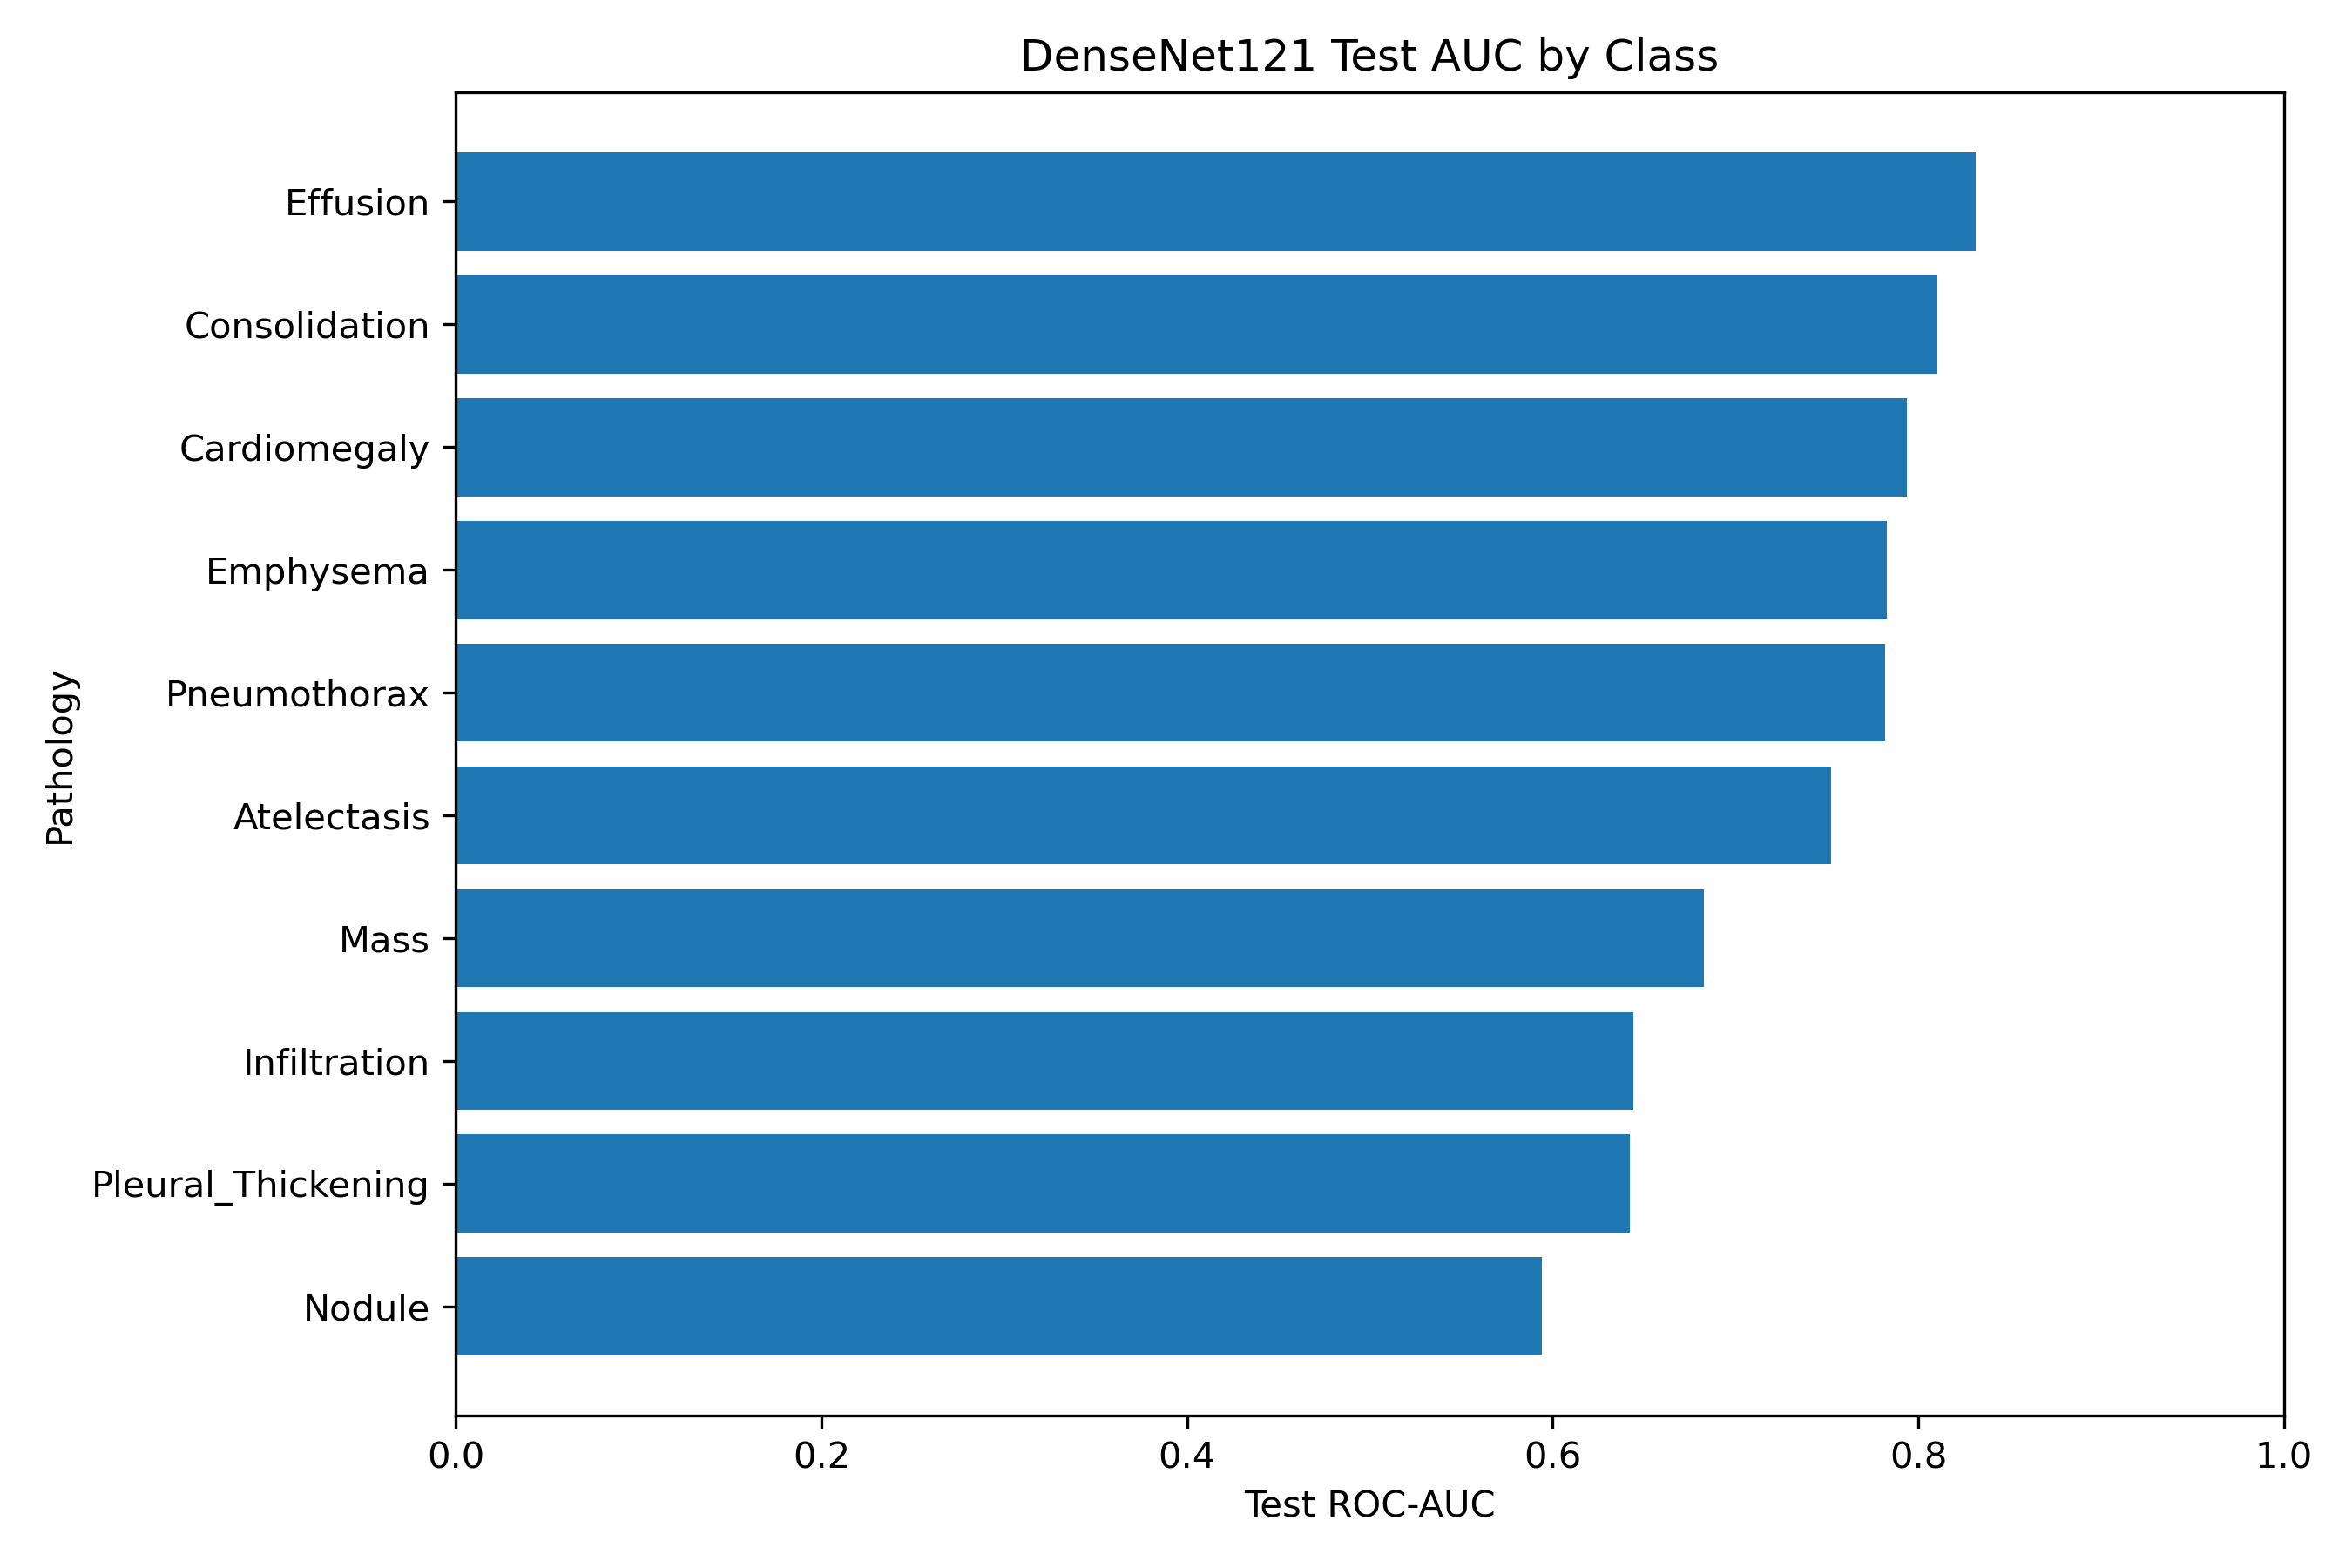
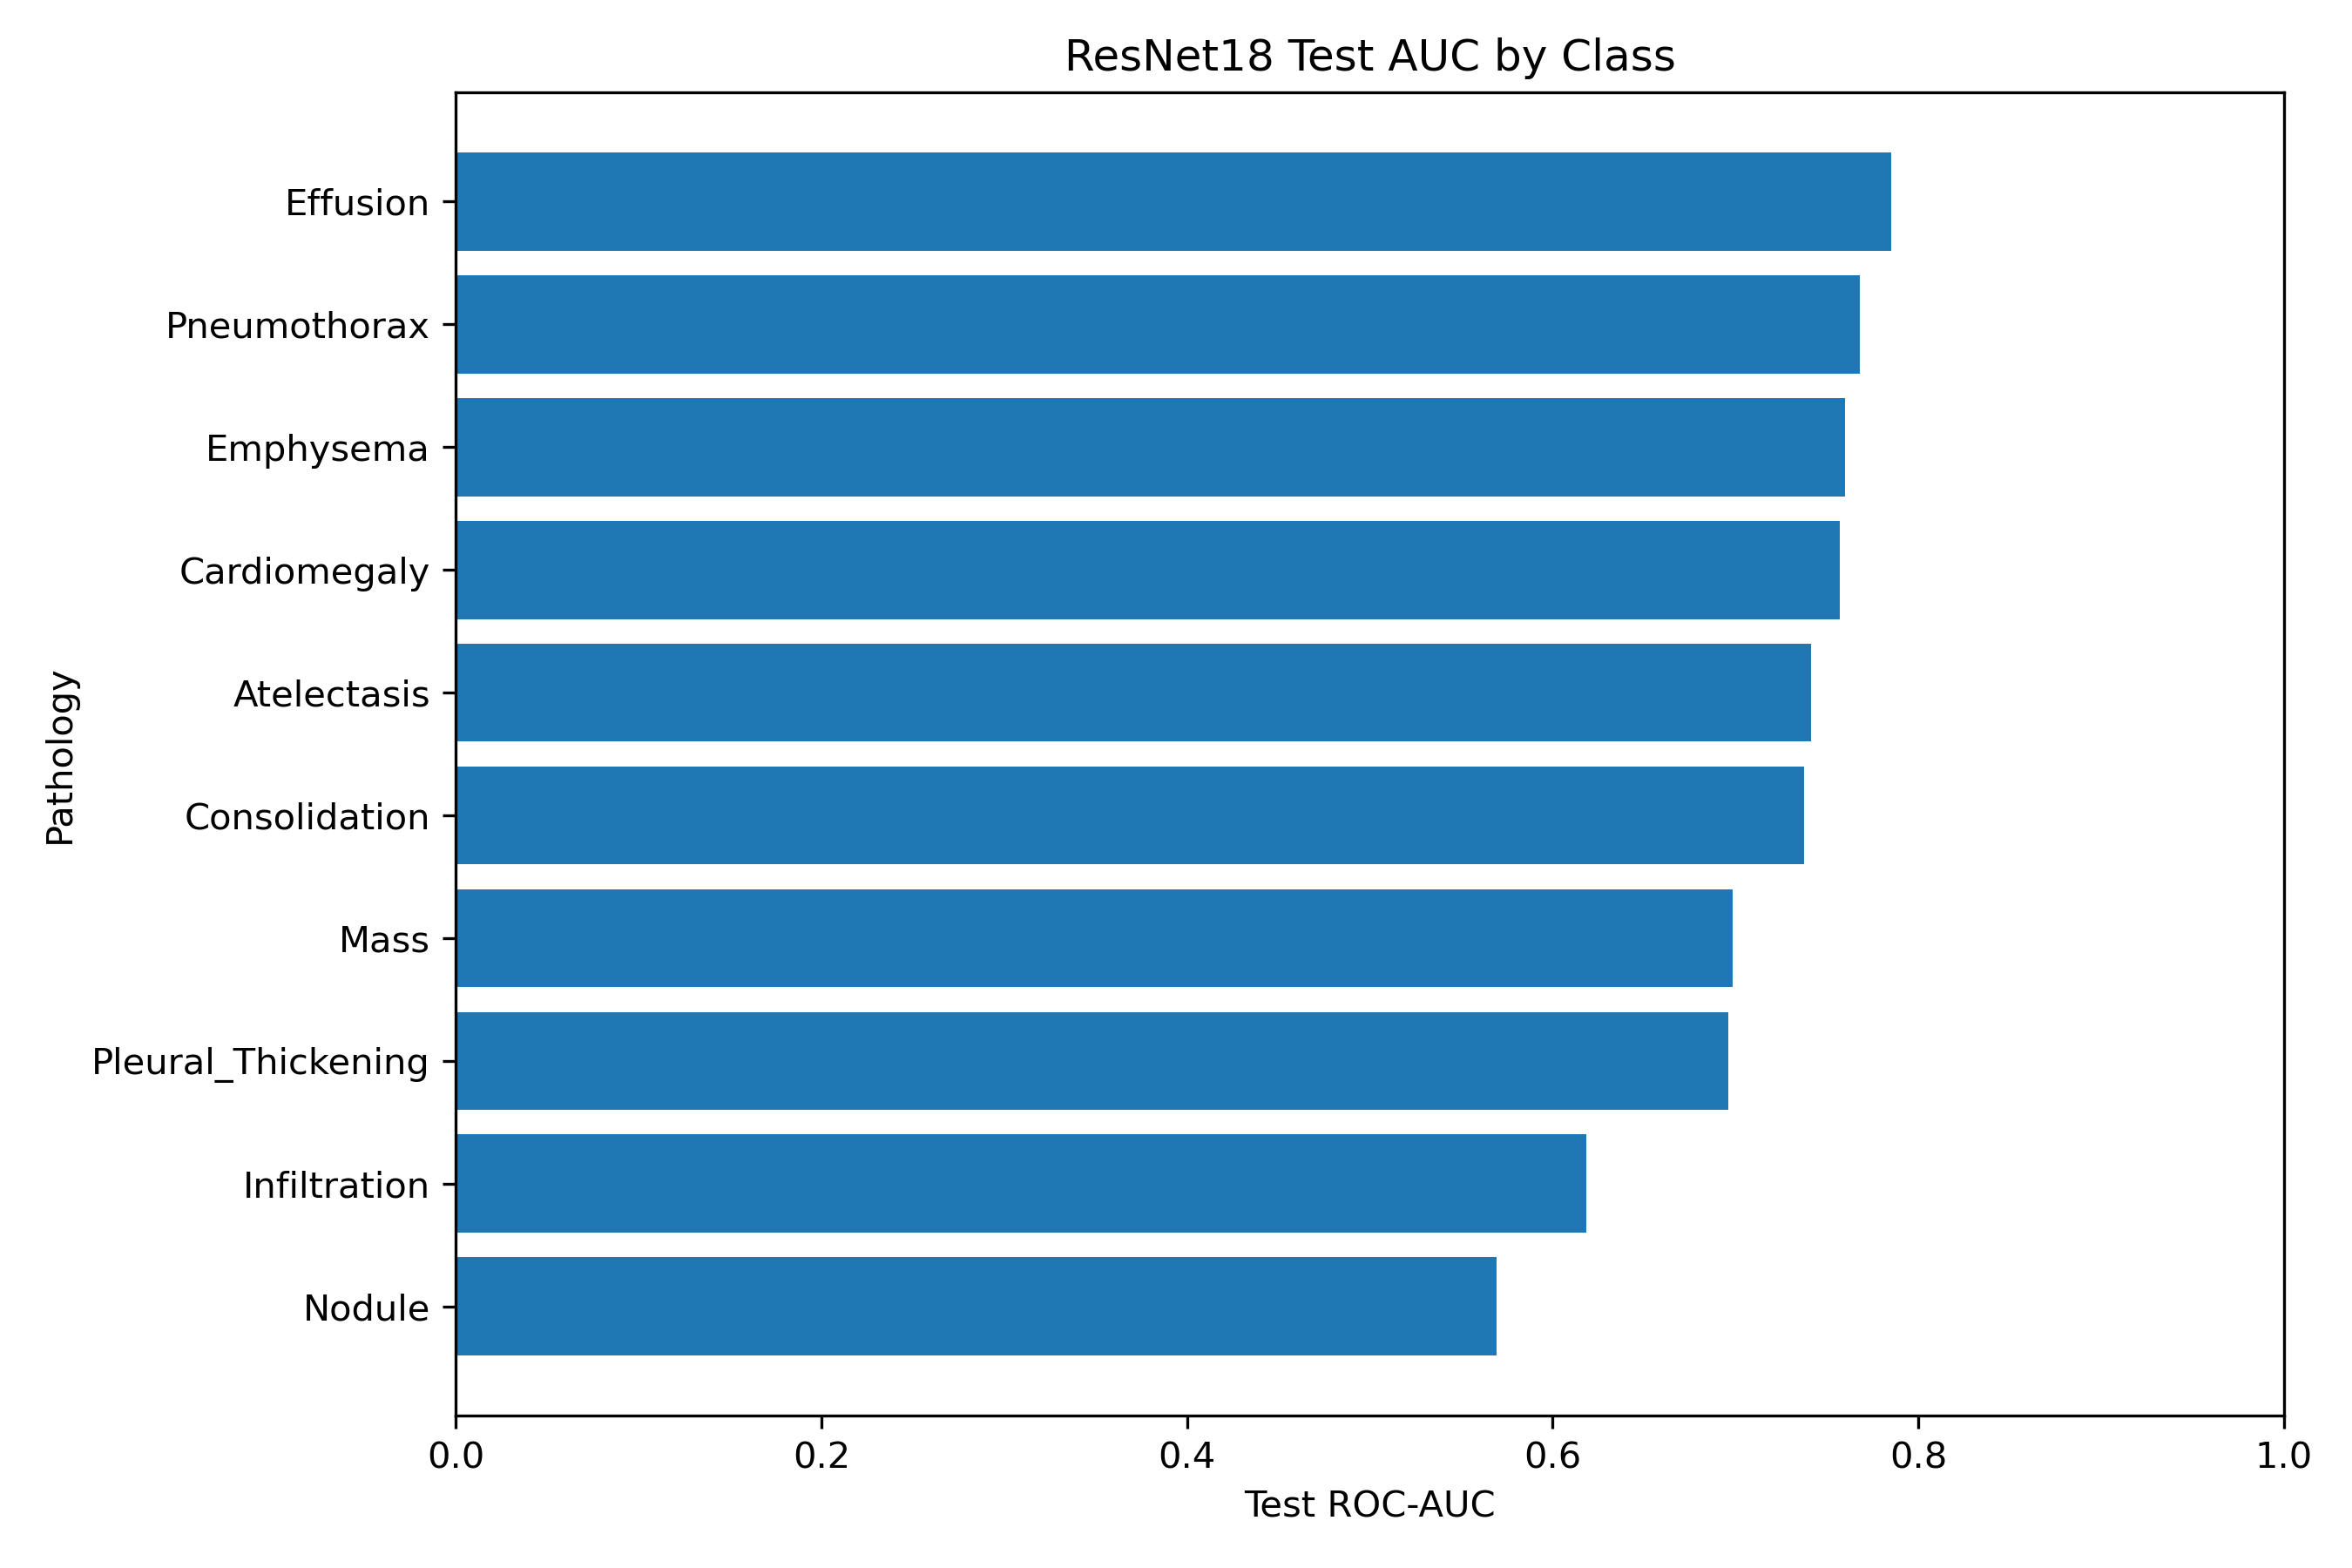
updated README and reworked evaluate operating point architecture

diff --git a/scripts/evaluation/evaluate_multiclass_operating_points.py b/scripts/evaluation/evaluate_multiclass_operating_points.py
@@ -11,12 +11,12 @@ import matplotlib.pyplot as plt
 
 # ---- CONFIG ----
 MANIFEST = "manifest/manifest_v2.parquet"
-CKPT = input("What is the Relative Path of the model?\n")
+CKPT = input("What is the Relative Path of the model?\n").strip()
 BATCH_SIZE = 32
 NUM_WORKERS = 0  # Windows-safe
 DEVICE = "cuda" if torch.cuda.is_available() else "cpu"
 IMG_SIZE = 224
-TARGET_SPEC = 0.90  # change to 0.95 if you want stricter
+TARGET_SPEC = 0.90
 RESULTS_DIR = "results"
 # ----------------
 
@@ -32,6 +32,7 @@ SELECTED_LABELS = [
     "Pleural_Thickening",
     "Pneumothorax",
 ]
+
 
 class CXRMultiLabelDataset(Dataset):
     def __init__(self, df, label_cols, transform):
@@ -50,6 +51,7 @@ class CXRMultiLabelDataset(Dataset):
         y = torch.tensor(row[self.label_cols].values.astype(np.float32))
         return x, y
 
+
 def make_transform(img_size):
     return transforms.Compose([
         transforms.Resize((img_size, img_size)),
@@ -57,28 +59,28 @@ def make_transform(img_size):
         transforms.Normalize([0.485, 0.456, 0.406], [0.229, 0.224, 0.225]),
     ])
 
+
 @torch.no_grad()
 def predict_probs(model, loader):
     model.eval()
     probs_list, y_list = [], []
+
     for x, y in loader:
         x = x.to(DEVICE, non_blocking=True)
         logits = model(x)
         probs = torch.sigmoid(logits).cpu().numpy()
         probs_list.append(probs)
         y_list.append(y.numpy())
+
     return np.concatenate(probs_list, axis=0), np.concatenate(y_list, axis=0)
 
+
 def threshold_for_specificity(probs, y_true, target_spec):
-    """
-    Choose threshold so that specificity ~ target_spec on y_true==0 samples.
-    Predict positive if prob >= thr.
-    """
     neg_probs = probs[y_true == 0]
     if len(neg_probs) == 0:
-        return 1.0  # no negatives -> degenerate; never predict positive
-    thr = np.quantile(neg_probs, target_spec)
-    return float(thr)
+        return 1.0
+    return float(np.quantile(neg_probs, target_spec))
+
 
 def confusion_counts(y_true, y_pred):
     tn = int(((y_true == 0) & (y_pred == 0)).sum())
@@ -87,13 +89,61 @@ def confusion_counts(y_true, y_pred):
     tp = int(((y_true == 1) & (y_pred == 1)).sum())
     return tn, fp, fn, tp
 
+
 def safe_div(a, b):
     return float(a) / float(b) if b != 0 else float("nan")
 
-def plot_per_class_roc(test_true, test_probs, class_names, save_dir):
+
+def infer_model_tag(ckpt_name):
+    ckpt_name = ckpt_name.lower()
+
+    if "densenet121" in ckpt_name:
+        return "densenet121"
+    elif "resnet18" in ckpt_name:
+        return "resnet18"
+    else:
+        raise ValueError(
+            "Could not infer model type from checkpoint filename. "
+            "Include 'resnet18' or 'densenet121' in the filename."
+        )
+
+
+def build_model(model_tag, num_classes):
+    if model_tag == "densenet121":
+        model = models.densenet121(weights=None)
+        model.classifier = nn.Linear(model.classifier.in_features, num_classes)
+    elif model_tag == "resnet18":
+        model = models.resnet18(weights=None)
+        model.fc = nn.Linear(model.fc.in_features, num_classes)
+    else:
+        raise ValueError(f"Unsupported model tag: {model_tag}")
+    return model
+
+
+def load_checkpoint_state_dict(ckpt_path, device):
+    try:
+        ckpt = torch.load(ckpt_path, map_location=device, weights_only=True)
+    except TypeError:
+        ckpt = torch.load(ckpt_path, map_location=device)
+
+    if isinstance(ckpt, dict) and "model_state_dict" in ckpt:
+        state_dict = ckpt["model_state_dict"]
+    else:
+        state_dict = ckpt
+
+    cleaned = {}
+    for k, v in state_dict.items():
+        if k.startswith("module."):
+            cleaned[k[len("module."):]] = v
+        else:
+            cleaned[k] = v
+
+    return cleaned
+
+
+def plot_per_class_roc(test_true, test_probs, class_names, save_dir, model_tag):
     os.makedirs(save_dir, exist_ok=True)
 
-    # Combined ROC plot
     plt.figure(figsize=(10, 8))
     for i, label in enumerate(class_names):
         y_true = test_true[:, i].astype(int)
@@ -109,13 +159,12 @@ def plot_per_class_roc(test_true, test_probs, class_names, save_dir):
     plt.plot([0, 1], [0, 1], "k--", linewidth=1)
     plt.xlabel("False Positive Rate")
     plt.ylabel("True Positive Rate")
-    plt.title("DenseNet121 Test ROC Curves")
+    plt.title(f"{model_tag} Test ROC Curves")
     plt.legend(loc="lower right", fontsize=8)
     plt.tight_layout()
-    plt.savefig(os.path.join(save_dir, "roc_all_classes.png"), dpi=300)
+    plt.savefig(os.path.join(save_dir, f"{model_tag}_roc_all_classes.png"), dpi=300)
     plt.close()
 
-    # Individual ROC plots
     for i, label in enumerate(class_names):
         y_true = test_true[:, i].astype(int)
         y_score = test_probs[:, i]
@@ -131,14 +180,15 @@ def plot_per_class_roc(test_true, test_probs, class_names, save_dir):
         plt.plot([0, 1], [0, 1], "k--", linewidth=1)
         plt.xlabel("False Positive Rate")
         plt.ylabel("True Positive Rate")
-        plt.title(f"ROC Curve - {label}")
+        plt.title(f"{model_tag} ROC Curve - {label}")
         plt.legend(loc="lower right")
         plt.tight_layout()
-        filename = f"roc_{label.lower().replace(' ', '_')}.png"
+        filename = f"{model_tag}_roc_{label.lower().replace(' ', '_')}.png"
         plt.savefig(os.path.join(save_dir, filename), dpi=300)
         plt.close()
 
-def plot_micro_average_roc(test_true, test_probs, save_dir):
+
+def plot_micro_average_roc(test_true, test_probs, save_dir, model_tag):
     os.makedirs(save_dir, exist_ok=True)
 
     fpr_micro, tpr_micro, _ = roc_curve(test_true.ravel(), test_probs.ravel())
@@ -149,13 +199,14 @@ def plot_micro_average_roc(test_true, test_probs, save_dir):
     plt.plot([0, 1], [0, 1], "k--", linewidth=1)
     plt.xlabel("False Positive Rate")
     plt.ylabel("True Positive Rate")
-    plt.title("Micro-Average ROC Curve")
+    plt.title(f"{model_tag} Micro-Average ROC Curve")
     plt.legend(loc="lower right")
     plt.tight_layout()
-    plt.savefig(os.path.join(save_dir, "roc_micro_average.png"), dpi=300)
+    plt.savefig(os.path.join(save_dir, f"{model_tag}_roc_micro_average.png"), dpi=300)
     plt.close()
 
-def plot_auc_bar_chart(report_df, save_dir):
+
+def plot_auc_bar_chart(report_df, save_dir, model_tag):
     os.makedirs(save_dir, exist_ok=True)
 
     plot_df = report_df.sort_values("test_auc", ascending=True)
@@ -164,14 +215,21 @@ def plot_auc_bar_chart(report_df, save_dir):
     plt.barh(plot_df["label"], plot_df["test_auc"])
     plt.xlabel("Test ROC-AUC")
     plt.ylabel("Pathology")
-    plt.title("DenseNet121 Test AUC by Class")
+    plt.title(f"{model_tag} Test AUC by Class")
     plt.xlim(0.0, 1.0)
     plt.tight_layout()
-    plt.savefig(os.path.join(save_dir, "auc_bar_chart.png"), dpi=300)
+    plt.savefig(os.path.join(save_dir, f"{model_tag}_auc_bar_chart.png"), dpi=300)
     plt.close()
+
 
 def main():
     os.makedirs(RESULTS_DIR, exist_ok=True)
+
+    ckpt_path = os.path.normpath(CKPT)
+    ckpt_name = os.path.basename(ckpt_path).lower()
+    model_tag = infer_model_tag(ckpt_name)
+
+    print(f"Detected model: {model_tag}")
 
     df = pd.read_parquet(MANIFEST)
 
@@ -185,24 +243,22 @@ def main():
         batch_size=BATCH_SIZE,
         shuffle=False,
         num_workers=NUM_WORKERS,
-        pin_memory=True
+        pin_memory=(DEVICE == "cuda"),
     )
+
     test_loader = DataLoader(
         CXRMultiLabelDataset(df_test, SELECTED_LABELS, tfm),
         batch_size=BATCH_SIZE,
         shuffle=False,
         num_workers=NUM_WORKERS,
-        pin_memory=True
+        pin_memory=(DEVICE == "cuda"),
     )
 
-    # Model (DenseNet121)
-    model = models.densenet121(weights=None)
-    model.classifier = nn.Linear(model.classifier.in_features, len(SELECTED_LABELS))
+    model = build_model(model_tag, len(SELECTED_LABELS))
     model.to(DEVICE)
 
-    # Load checkpoint
-    ckpt = torch.load(CKPT, map_location=DEVICE, weights_only=False)
-    model.load_state_dict(ckpt["model_state_dict"])
+    state_dict = load_checkpoint_state_dict(ckpt_path, DEVICE)
+    model.load_state_dict(state_dict)
 
     val_probs, val_true = predict_probs(model, val_loader)
     test_probs, test_true = predict_probs(model, test_loader)
@@ -239,12 +295,11 @@ def main():
             "TN": tn,
             "FP": fp,
             "FN": fn,
-            "TP": tp
+            "TP": tp,
         })
 
     out = pd.DataFrame(rows).sort_values("test_auc", ascending=False)
 
-    # Macro / Micro AUC summaries
     macro_auc = roc_auc_score(test_true, test_probs, average="macro")
     micro_auc = roc_auc_score(test_true, test_probs, average="micro")
 
@@ -253,47 +308,40 @@ def main():
     pd.set_option("display.max_rows", 200)
 
     print(f"\nOperating point: thresholds chosen for ~{int(TARGET_SPEC * 100)}% specificity on VAL\n")
-    print(out[[
-        "label", "val_pos", "test_pos", "thr@val_spec", "val_auc", "test_auc",
-        "test_spec", "test_sens", "test_prec", "TN", "FP", "FN", "TP"
-    ]].to_string(index=False))
+    print(out[
+        ["label", "val_pos", "test_pos", "thr@val_spec", "val_auc", "test_auc",
+         "test_spec", "test_sens", "test_prec", "TN", "FP", "FN", "TP"]
+    ].to_string(index=False))
 
     print(f"\nMacro ROC-AUC (test): {macro_auc:.4f}")
     print(f"Micro ROC-AUC (test): {micro_auc:.4f}")
 
-    # Save tabular results
-    if(CKPT == "models/best_densenet121_multilabel.pt"):
-        out.to_csv("results/operating_points_report_densenet121.csv", index=False)
-        print("\nSaved: results/operating_points_report_densenet121.csv")
-
-    elif(CKPT == "models/best_resnet18_multilabel.pt"):
-        out.to_csv("results/operating_points_report_resnet18.csv", index=False)
-        print("\nSaved: results/operating_points_report_resnet18.csv")
-
-    else:
-        out.to_csv("results/operating_points_report_unspecified_model.csv", index=False)
-        print("\nSaved: results/operating_points_report_unspecified_model.csv")        
+    report_path = os.path.join(RESULTS_DIR, f"{model_tag}_operating_points_report.csv")
+    out.to_csv(report_path, index=False)
+    print(f"\nSaved: {report_path}")
 
     summary_df = pd.DataFrame([{
+        "model": model_tag,
         "macro_auc": macro_auc,
         "micro_auc": micro_auc,
         "target_specificity": TARGET_SPEC,
         "num_val_samples": len(df_val),
-        "num_test_samples": len(df_test)
+        "num_test_samples": len(df_test),
     }])
-    summary_df.to_csv(os.path.join(RESULTS_DIR, "summary_metrics.csv"), index=False)
-    print(f"Saved: {os.path.join(RESULTS_DIR, 'summary_metrics.csv')}")
+    summary_path = os.path.join(RESULTS_DIR, f"{model_tag}_summary_metrics.csv")
+    summary_df.to_csv(summary_path, index=False)
+    print(f"Saved: {summary_path}")
 
-    # Save plots
-    plot_per_class_roc(test_true, test_probs, SELECTED_LABELS, RESULTS_DIR)
-    print(f"Saved: {os.path.join(RESULTS_DIR, 'roc_all_classes.png')}")
-    print("Saved: individual per-class ROC curve PNGs")
+    plot_per_class_roc(test_true, test_probs, SELECTED_LABELS, RESULTS_DIR, model_tag)
+    print(f"Saved: {os.path.join(RESULTS_DIR, f'{model_tag}_roc_all_classes.png')}")
+    print(f"Saved: individual per-class ROC curve PNGs with prefix '{model_tag}_'")
 
-    plot_micro_average_roc(test_true, test_probs, RESULTS_DIR)
-    print(f"Saved: {os.path.join(RESULTS_DIR, 'roc_micro_average.png')}")
+    plot_micro_average_roc(test_true, test_probs, RESULTS_DIR, model_tag)
+    print(f"Saved: {os.path.join(RESULTS_DIR, f'{model_tag}_roc_micro_average.png')}")
 
-    plot_auc_bar_chart(out, RESULTS_DIR)
-    print(f"Saved: {os.path.join(RESULTS_DIR, 'auc_bar_chart.png')}")
+    plot_auc_bar_chart(out, RESULTS_DIR, model_tag)
+    print(f"Saved: {os.path.join(RESULTS_DIR, f'{model_tag}_auc_bar_chart.png')}")
+
 
 if __name__ == "__main__":
     main()

diff --git a/README.md b/README.md
@@ -163,25 +163,44 @@ For example:
 This imbalance motivates the use of **ROC-AUC based evaluation rather than raw accuracy**.
 
 ---
-## Example Model Performance
+## Model Performance
 
-Representative evaluation metrics from the trained models.
+Evaluation results include:
 
-| Disease | ResNet18 AUC | DenseNet121 AUC |
-|-------|------|------|
-| Atelectasis | 0.78 | 0.80 |
-| Cardiomegaly | 0.85 | 0.87 |
-| Effusion | 0.83 | 0.85 |
-| Pneumothorax | 0.81 | 0.84 |
+**ResNet18 Operating Point Evaluation (90% Specificity Target):**
+| Label | Val Pos | Test Pos | Thr @ Val Spec | Val AUC | Test AUC | Test Spec | Test Sens | Test Prec | TN | FP | FN | TP |
+|------|------|------|------|------|------|------|------|------|------|------|------|------|
+| Effusion | 112 | 91 | 0.612237 | 0.797065 | 0.784981 | 0.899604 | 0.439560 | 0.344828 | 681 | 76 | 51 | 40 |
+| Pneumothorax | 42 | 48 | 0.647068 | 0.701750 | 0.767813 | 0.898750 | 0.333333 | 0.164948 | 719 | 81 | 32 | 16 |
+| Emphysema | 23 | 31 | 0.419434 | 0.791461 | 0.760058 | 0.919217 | 0.387097 | 0.153846 | 751 | 66 | 19 | 12 |
+| Cardiomegaly | 17 | 36 | 0.700168 | 0.880453 | 0.757184 | 0.894089 | 0.444444 | 0.156863 | 726 | 86 | 20 | 16 |
+| Atelectasis | 75 | 64 | 0.682694 | 0.732716 | 0.741450 | 0.910714 | 0.312500 | 0.222222 | 714 | 70 | 44 | 20 |
+| Consolidation | 37 | 31 | 0.686501 | 0.735493 | 0.737750 | 0.927785 | 0.161290 | 0.078125 | 758 | 59 | 26 | 5 |
+| Mass | 39 | 49 | 0.684444 | 0.751339 | 0.698271 | 0.869837 | 0.265306 | 0.111111 | 695 | 104 | 36 | 13 |
+| Pleural Thickening | 24 | 22 | 0.537707 | 0.736379 | 0.695851 | 0.866828 | 0.363636 | 0.067797 | 716 | 110 | 14 | 8 |
+| Infiltration | 143 | 166 | 0.699869 | 0.642086 | 0.618477 | 0.939883 | 0.150602 | 0.378788 | 641 | 41 | 141 | 25 |
+| Nodule | 55 | 42 | 0.787179 | 0.715607 | 0.569154 | 0.875931 | 0.142857 | 0.056604 | 706 | 100 | 36 | 6 |
 
-Overall performance:
+**DenseNet121 Operating Point Evaluation (90% Specificity Target):**
+| Label | Val Pos | Test Pos | Thr @ Val Spec | Val AUC | Test AUC | Test Spec | Test Sens | Test Prec | TN | FP | FN | TP |
+|------|------|------|------|------|------|------|------|------|------|------|------|------|
+| Effusion | 112 | 91 | 0.807610 | 0.802535 | 0.831420 | 0.919419 | 0.384615 | 0.364583 | 696 | 61 | 56 | 35 |
+| Consolidation | 37 | 31 | 0.757432 | 0.759936 | 0.810597 | 0.932681 | 0.322581 | 0.153846 | 762 | 55 | 21 | 10 |
+| Cardiomegaly | 17 | 36 | 0.418789 | 0.872995 | 0.793685 | 0.891626 | 0.500000 | 0.169811 | 724 | 88 | 18 | 18 |
+| Emphysema | 23 | 31 | 0.593813 | 0.867103 | 0.782959 | 0.908201 | 0.451613 | 0.157303 | 742 | 75 | 17 | 14 |
+| Pneumothorax | 42 | 48 | 0.707394 | 0.721420 | 0.781745 | 0.913750 | 0.375000 | 0.206897 | 731 | 69 | 30 | 18 |
+| Atelectasis | 75 | 64 | 0.706895 | 0.733659 | 0.752292 | 0.936224 | 0.234375 | 0.230769 | 734 | 50 | 49 | 15 |
+| Mass | 39 | 49 | 0.739537 | 0.775562 | 0.682869 | 0.902378 | 0.265306 | 0.142857 | 721 | 78 | 36 | 13 |
+| Infiltration | 143 | 166 | 0.674072 | 0.659835 | 0.643978 | 0.929619 | 0.198795 | 0.407407 | 634 | 48 | 133 | 33 |
+| Pleural Thickening | 24 | 22 | 0.738096 | 0.743215 | 0.642087 | 0.895884 | 0.363636 | 0.085106 | 740 | 86 | 14 | 8 |
+| Nodule | 55 | 42 | 0.514448 | 0.706106 | 0.594027 | 0.877171 | 0.261905 | 0.100000 | 707 | 99 | 31 | 11 |
 
-- **Micro-average AUC**
-- **Per-class ROC curves**
-- **Operating point evaluation at fixed specificity**
+- per-class ROC curves
+- micro-average ROC curves
+- AUC comparison across model architectures
+- operating point analysis
 
-All evaluation outputs are stored in the `results/` directory.
-
+All generated figures and metrics are available in the `results/` directory.
 ---
 ## Problem Formulation
 